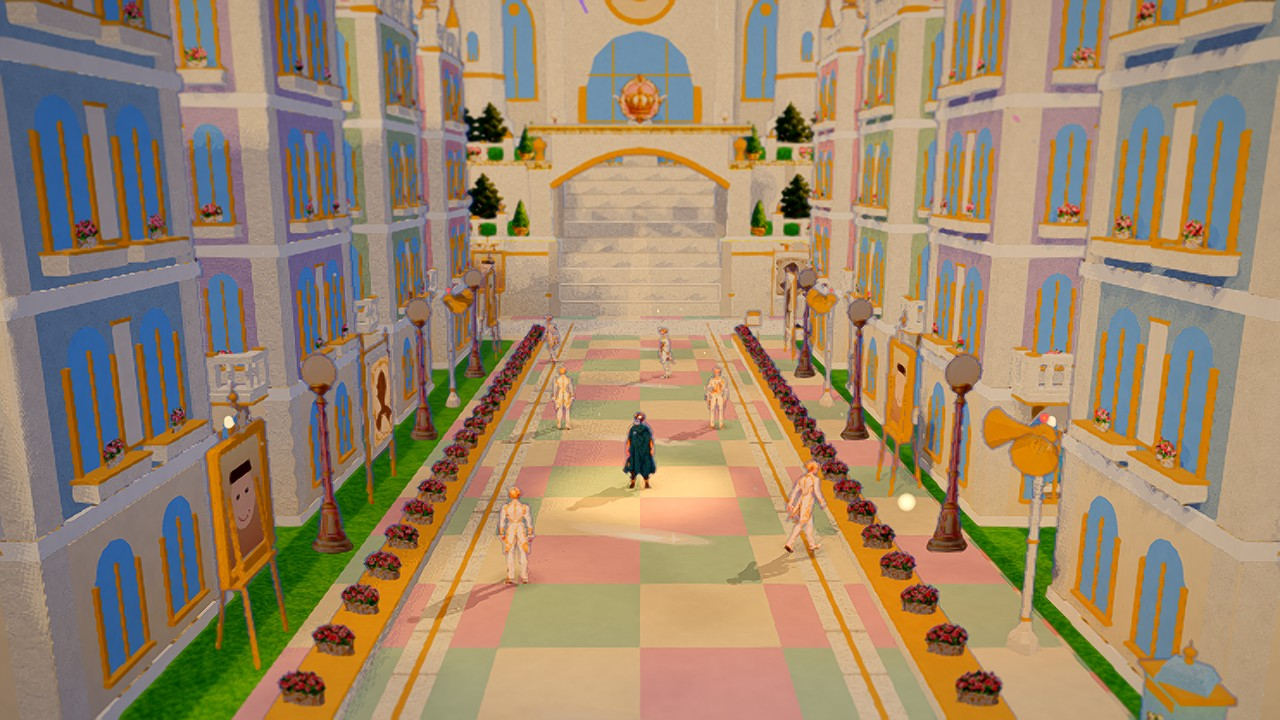
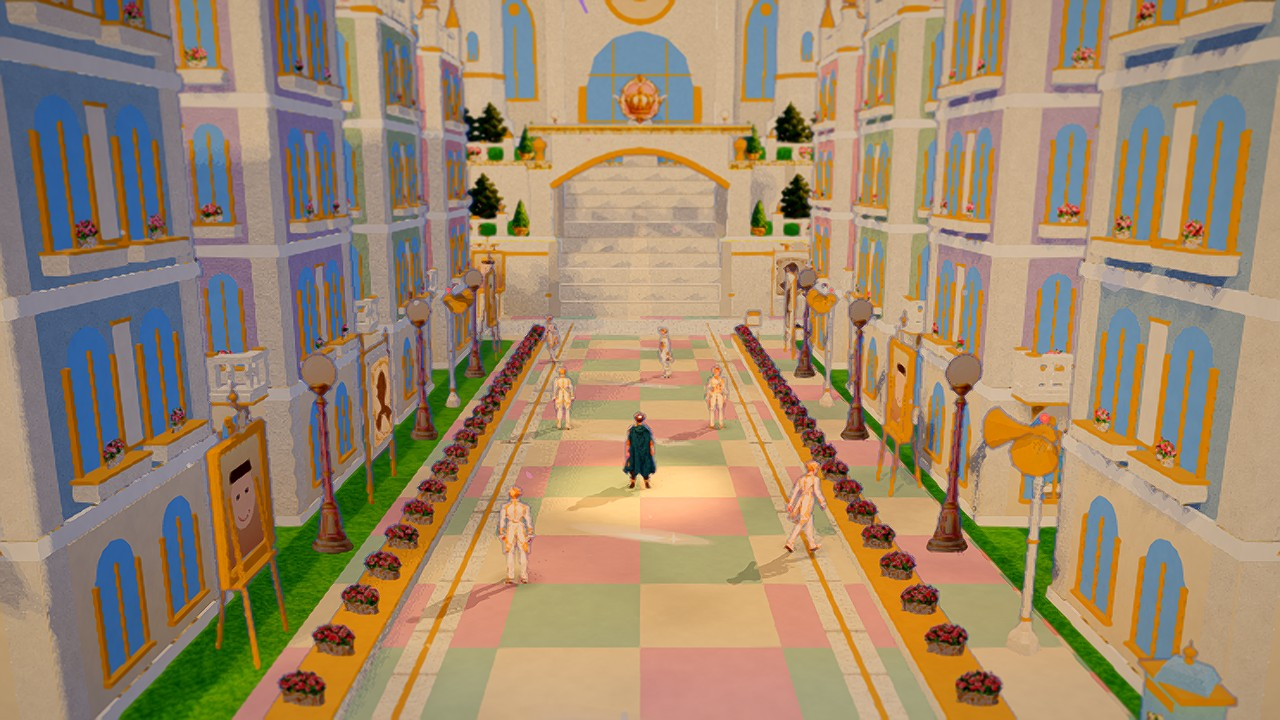
Capital rebuild Nov 1, Parts E-F: grade v3 (whiter key, less fill, shadows 0.85, exposure 0.47), bluer sky horizon band, the terrace statue pair; the Transit tower moved off the Tidy-Bot's home and the Ward tower dropped (it cut the strip to the Ward chest): core 1564/1564, world 431/431; critics c4

diff --git a/docs/review/capital_critic_c5.md b/docs/review/capital_critic_c5.md
@@ -1,0 +1,23 @@
+# Capital inner city, c5 shots vs PAINTOVER-CAP-INNER-CITY
+
+Scored against the target painting only. 8 = matches the target in this respect, 10 = as good as or better.
+
+| # | Criterion | Score | Evidence |
+|---|-----------|-------|----------|
+| 1 | Grandeur | 6 | The castle front fills the top of `ref` and the boulevard in `palace_approach` runs a long way to the stairs, but the castle is a flat painted backdrop with no depth behind it, and in `transit_yards`, `hungry_quarter`, `grave_row` and `the_reek` the city is an empty paved lot inside a blank curtain wall: it reads as a stage set, not a capital. |
+| 2 | Symmetry / perfection | 7 | The axis is exact in `ref`, `fountain` and `palace_approach` (statue pair, topiary pair, lamp pairs, mirrored townhouse rows, mirrored stall rows in `hungry_quarter`). Breaks: the benches in `gate_plaza` sit at odd angles, a manhole cover is on the Showcase paving in `gate_plaza` and `hungry_quarter`, a lone pot sits by the fence, the right side of `palace_approach` has a stray brown bracket at eye level. |
+| 3 | Building height + detail | 6 | `palace_approach` and `boulevard` have 4-storey townhouses with arched blue windows, gold trim, balconies and flower boxes in mirrored rows, which is the right language. But every row ends in a flat cut-off with no roof, pediment, sun medallion or pinnacle, the windows are flat blue paint with no depth, and the plaster is grainy noise rather than crisp cream. |
+| 4 | Towers / skyline | 4 | No slender pointed pastel spires anywhere. `ref` shows two small blue-roofed stubs at the plaza corners and a thin strip of pinnacles along the top edge of the castle; `overview` and `palace_approach` have no skyline at all, the roofline is cropped by the frame and the castle is one flat wall. Nothing steps up to the castle. |
+| 5 | Statues / fountain | 7 | Gilded figures on carved plinths in matching pairs flank the plaza in `ref` and `gate_plaza`, and the giant painted statue in `boulevard` is the best-looking asset in the set. The fountain is tiered with water, rose urns and a sun face (`fountain`). Loses points because the statues are flat cut-outs that all face the camera (visible in `boulevard`, `gate_plaza`) and the fountain water is a static pale slab with no spray or sheen. |
+| 6 | Gardens | 6 | Cone topiary in rose beds inside gold-trimmed white planters, mirrored, in `ref`; continuous rose strips along the boulevard in `palace_approach`; cone trees in urns up the castle stairs. Missing the target's gold urns on pedestals and any parterre: the side lots in `gate_plaza` and `grave_row` are plain striped lawn with scattered benches, and there is a bare dirt pit with limbs in `grave_row`. |
+| 7 | Paving | 7 | Pink/sage/cream checker with gold ring lines and spoke borders on the plaza (`ref`, `overview`) is close to the target. The tiles are about twice the target scale, there is no sheen, and the same loud checker runs unbroken through `the_reek`, `hungry_quarter` and `transit_yards`, so it stops reading as a formal plaza and starts reading as a floor texture. Lamp posts are bronze, not pink. |
+| 8 | Lighting / atmosphere | 4 | Every shot is overexposed: cream plaster is blown to white, the sky is a white void in `ref`, `palace_approach` and `gate_plaza` (no blue, no clouds, no mountains, no haze gradient), shadows are faint, and there is an odd bright pool under the player in `ref_mid` and `palace_approach`. Only `inner_gate` and `overview` gain any depth, and that is from the dark cobbles in the foreground. |
+| 9 | Overall quality | 5 | The composition and asset set are right, but a heavy grain/noise filter sits over every surface (`ref_mid`, `boulevard` plinth), the statues and citizens are flat sprites, the walls are blank, and the exposure is blown. It looks like a promising blockout with final paving, not a finished high-quality indie scene. |
+
+## Three changes that would raise the lowest scores most
+
+1. Lighting and backdrop (raises 8, 9, 1). Drop exposure/bloom by about one stop so cream plaster reads cream and gold trim reads gold, not white. Put a real sky behind the castle: blue with soft clouds and a pale mountain band, with a haze gradient that lightens the castle and townhouse tops with distance (visible in `ref`, `palace_approach`, `gate_plaza`). Give statues, lamp posts, planters and the fountain a proper warm-key shadow with a soft edge, and remove the bright spotlight disc under the player.
+
+2. Skyline and roofs (raises 4, 3, 1). Add slender towers with pointed pastel spires (blue, pink, sage cones with gold finials, 2-3 townhouse heights) at the four corners of the plaza and in pairs flanking the castle stairs so the silhouette steps up to the castle, and raise the camera or lower the castle so the spire line is actually in frame in `ref` and `palace_approach`. Cap every townhouse row with a pastel slate roof, a central pediment with a sun medallion and pinnacles at the corners instead of the flat cut-off in `palace_approach` and `boulevard`.
+
+3. Surface quality and the districts (raises 9, 6, 2). Cut the grain/noise filter to a fraction of its strength and sharpen the texture filtering so plaster, plinth carving and windows are crisp (`ref_mid`, `boulevard`). Replace the flat forward-facing statue cut-outs with meshes or at least two-angle sprites. In the districts, line the blank curtain walls of `transit_yards`, `hungry_quarter`, `grave_row` and `the_reek` with the same townhouse facades used on the boulevard so each district is a street, not a lot, and turn the striped lawns in `gate_plaza` and `grave_row` into parterres (box-hedge quadrants, rose beds, cone topiary in gold urns on pedestals) with the benches squared to the axis and the manhole covers removed from the Showcase.

diff --git a/docs/review/capital_critic_c4.md b/docs/review/capital_critic_c4.md
@@ -1,0 +1,23 @@
+# Capital inner city, cycle c4: critic scores against PAINTOVER-CAP-INNER-CITY
+
+Shots scored: ref, ref_mid, ref_play, gate_plaza, inner_gate, boulevard, fountain, palace_approach, transit_yards, hungry_quarter, grave_row, the_reek, overview (docs/art/capital_rebuild_nov1/c4).
+
+| Criterion | Score | Evidence |
+|---|---|---|
+| 1. Grandeur | 6 | `ref` and `inner_gate` do frame a wide plaza, paired colossal pillars and a castle filling the sky, but the castle is a flat pale facade that meets the plaza directly behind the fountain with no rising middle ground (the stair in `palace_approach` is small and sits on a wall), so it reads as a backdrop wall, not a capital climbing to a palace. |
+| 2. Symmetry / perfection | 7 | `ref_play` and `fountain` are properly mirrored (paired topiary beds, paired gold statues, paired lamps, paired guards). `gate_plaza` breaks it: green lawn and benches on the left, plain sandstone paving and a blue-roofed kiosk on the right, a manhole cover and a stray bench mid-plaza; `palace_approach` hangs different signboards, an easel and a horn on the two lamp rows. |
+| 3. Building height + detail | 5 | `palace_approach` townhouses are four storeys of blue arched-window decals on flat cream planes with gold trim and a few flower boxes, but no balconies, no pediments or sun medallions, no ground-floor arcades, and flat cut-off tops instead of pastel slate roofs; the same two facades repeat the full length of the boulevard. |
+| 4. Towers / skyline | 4 | Only the castle backdrop supplies spires (small blue cones at the top corners of `ref`); the townhouse rows end in flat rooflines, `overview` and `palace_approach` show no spires above the rows, and no slender freestanding towers step up toward the castle anywhere. |
+| 5. Statues / fountain | 8 | `ref` has the full set: three gilded figures on white-and-gold plinths (laurel wreath on the plinth in `boulevard`), a tiered fountain with water, sun medallion on the basin, rose pots on the rim. Deductions: the statue is a sprite with pixelated edges that the camera clips through in `boulevard`, and the target's pairs flank the plaza further apart. |
+| 6. Gardens | 6 | Cone topiary in white-and-gold planters ringed with pink roses (`ref`), rose borders flanking the boulevard (`palace_approach`) and striped lawn parterres in `grave_row` are the right language; but no gold urns, no parterre patterns, large flat green lawn planes with scattered benches in `gate_plaza`, and dark conifers on the castle terraces instead of clipped cones. |
+| 7. Paving | 7 | The pink/sage/cream checker with gold rings around the fountain and gold boulevard edge lines (`fountain`, `overview`) matches the target closely; tiles are character-sized rather than fine, the gold borders are thin and blurry, there is no sheen, and `gate_plaza` has a plain sandstone patch on the right. |
+| 8. Lighting / atmosphere | 4 | Every shot is overexposed and cream-tinted: the sky is almost absent (a thin strip in `gate_plaza` and `transit_yards`), the castle facade is washed to near-white with no contrast, buildings and statues cast no visible shadows, the only crisp shadow is the hero's in a spotlight pool (`ref_mid`), and heavy haze flattens the plaza and castle into one plane. |
+| 9. Overall quality | 5 | Coherent art direction and a convincing plaza (`ref_play`), undercut by billboard facades, sprite statues with hard pixel edges (`boulevard`), blurry pillar textures, cardboard pink-roofed sheds in `hungry_quarter`, flat cut-out wheels in `transit_yards`, and the blown-out exposure throughout. |
+
+## Three changes that would raise the lowest scores most
+
+1. Lighting (scores 8, 9, 1): drop exposure and ambient fill by roughly a stop in the Capital, remove the cream colour cast so the sky reads blue and the castle reads white-with-gold against it, turn on sun shadows for the castle, pillars, statues and townhouses (soft, about 45 degrees), and reduce the depth haze to a light far-distance band only. Re-frame `ref` so a strip of sky and the castle spires sit above the facade.
+
+2. Skyline (scores 4, 1, 3): give the townhouse rows pitched pastel slate roofs with gold pinnacles and pediments along the ridge, then place a mirrored set of slender towers with pointed pastel spires behind the rows on both sides of the boulevard, stepping taller toward the castle; add two or three terraced steps with balustrades between the fountain plaza and the castle base so the palace rises instead of standing as a wall behind the fountain.
+
+3. Facade detail and plaza symmetry (scores 3, 2, 6): on the townhouse facade add a ground-floor arcade, balconies with flower boxes on every window of one storey, pediments with sun medallions over the doors, and shrink the window decals so storeys read; in `gate_plaza` mirror the halves (same lawn-and-rose parterre on both sides, replace the blue kiosk and sandstone patch, remove the manhole and loose benches) and put the cone topiary in gold urns with parterre hedging as the target shows.

diff --git a/docs/art/capital_rebuild_nov1.md b/docs/art/capital_rebuild_nov1.md
@@ -129,3 +129,44 @@ scores each iteration 1-10. Reports: `docs/review/capital_critic_<phase>.md`.
 | Iteration | Grandeur | Symmetry | Buildings | Towers | Statues/fountain | Gardens | Paving | Light | Overall |
 |---|---|---|---|---|---|---|---|---|---|
 | c2 (Showcase rebuilt, first light pass) | 4 | 5 | 4 | 2 | 7 | 4 | 6 | 3 | 4 |
+| c3 (bolder pastels, gate piers, lamp banners, lawn rose runs, grade v2) | 5 | 6 | 6 | 2 | 7 | 6 | 7 | 4 | 5 |
+| c4 (12 m plaza towers, more hill spires, gold horns, grade v3, ref reframed) | 6 | 7 | 5 | 4 | 8 | 6 | 7 | 4 | 5 |
+| c5 (whiter key, less fill, shadows 0.85, exposure 0.47; terrace statue pair) | 6 | 7 | 6 | 4 | 7 | 6 | 7 | 4 | 5 |
+
+What the critics could not see: the play camera (Cinematic, 20 degrees) sees about six degrees above the horizon, so the roofs, pediments and
+pinnacles of any townhouse nearer than about 40 m and the spires of the 12 m plaza towers are above the frame; every critic scored "no roofs,
+no spires" while the lineup shows them. Only the far skyline (the castle, the hill-top spires, the rows beyond the walls) reads in play. The
+tallest masses therefore stand far (the hill top). The "black lamp globes" every critic reported are the loudspeakers' horns seen from the
+front (now gold inside too). The light score stayed at 4 through four grade passes (exposure 0.84 -> 0.47, bloom cut, ambient cut, shadows
+0.3 -> 0.85): what the critic calls "overexposed" is cream plaster in full sun under the toon shader's lit band, and the "white sky" is the
+sky's horizon band, the only part of the sky the play camera sees. Both are look-wide decisions (inbox 1, 4), not fixable inside the Capital.
+
+### The fallen state (`--flags=zone_final_completed`)
+
+| | |
+|---|---|
+| ![](capital_rebuild_nov1/freed/ref.jpg) the plaza: toppled statues, the fountain dry, weeds in the checker | ![](capital_rebuild_nov1/freed/palace_approach.jpg) the boulevard: warm windows, dim gold, crooked banners |
+
+## Part E: gameplay and performance
+
+- Layout rules: the world test group (`bash tools/run_tests.sh --only=tests/world`, 431 tests) and the core group pass (see the note on the
+  connectivity test below); the parterre pieces live in `CapitalDressing.garden_fields` (they stand inside their planters by design), the
+  fountain's bigger circle keeps the plaza-open rule because the avenue now starts at z 46.5 and the boulevards end at x 49 / 71.
+- `bash tools/run_capital_walk_smoke.sh`: OK (36 screenshots; the gate, every district, the Ward, the castle door, the hidden hole, save/load,
+  the four Paths freed and welcomed).
+- `bash tools/perf_budget.sh frame capital_in "0 1"` at the gate (`--at=gate_inside`, Medium 1600x900 on the development iGPU):
+
+| capital_in Medium | avg ms | 1 % low ms | draw calls |
+|---|---|---|---|
+| budget | 18.5 | 25.0 | 850 |
+| first rebuild (per-house meshes, cells) | 16.98 | 51.5 | 1004 |
+| body / detail split, skyline per material | 16.92 | 26.5 | 934 |
+| second rank + towers batched | 16.39 | 21.5 | 877 |
+| lamps + benches as card fields, statues batched, gold lanterns | 16.48 | 22.1 | 847 (met) |
+
+  Low: 12.9 ms avg, 424 draw calls (the Low budget line 390 / 24.1 ms predates the rebuild; its p99 25.8 is within noise; the budgets file was
+  not re-based). Loading: the same path as before (layout, ground, build cache); the new pieces build in code, nothing new is imported.
+- Shadows only from the bodies (plaster, roofs); windows, trim, cards, balustrades, lamps, benches, roses, topiary cast none.
+- Occlusion: one mesh per inner-rank townhouse (the fader dims one house); the second rank, the towers and the statues merge and never fade
+  (the statues and the fountain by the brief; the towers are thin; the second rank never stands between the trailing camera and the hero on the
+  avenue or in the alleys).

diff --git a/docs/perf/runs/budget_check.md b/docs/perf/runs/budget_check.md
@@ -1,28 +1,3 @@
 | Area | Q | avg fps | 1% low | avg ms | CPU ms | GPU ms | draw calls | objects | nodes | load ms | worst ms | RAM MB | VRAM MB | tex MB |
 |---|---|---|---|---|---|---|---|---|---|---|---|---|---|---|
-| crosspath | Low | 85.6 | 48.7 | 11.68 | 2.11 | 8.18 | 620 | 976 | 1770 | 5135 | 148 | 1542 | 835 | 403 |
-| crosspath | Medium | 67.2 | 38.3 | 14.89 | 2.18 | 12.25 | 836 | 1187 | 1806 | 5052 | 150 | 1539 | 859 | 426 |
-| forest | Low | 125.3 | 102.9 | 7.98 | 0.99 | 6.65 | 132 | 282 | 354 | 1707 | 122 | 785 | 231 | 137 |
-| forest | Medium | 85.9 | 66.7 | 11.64 | 1.17 | 10.39 | 191 | 340 | 375 | 1903 | 140 | 765 | 253 | 152 |
-| gainlands | Low | 89.7 | 34.3 | 11.15 | 1.66 | 7.59 | 357 | 706 | 1476 | 4349 | 142 | 1338 | 673 | 291 |
-| gainlands | Medium | 70.4 | 50.0 | 14.20 | 2.14 | 12.00 | 787 | 1168 | 1536 | 3717 | 144 | 1337 | 695 | 302 |
-| buffet | Low | 95.8 | 39.5 | 10.44 | 1.49 | 7.71 | 350 | 715 | 1414 | 3796 | 150 | 1204 | 582 | 287 |
-| buffet | Medium | 73.2 | 46.5 | 13.66 | 1.91 | 11.64 | 696 | 1140 | 1419 | 3376 | 145 | 1191 | 604 | 298 |
-| dna | Low | 88.5 | 35.0 | 11.30 | 1.46 | 6.84 | 429 | 814 | 1102 | 3522 | 139 | 1250 | 578 | 273 |
-| dna | Medium | 73.3 | 40.0 | 13.64 | 2.14 | 10.06 | 885 | 1270 | 1110 | 3424 | 150 | 1243 | 585 | 283 |
-| heap | Low | 79.9 | 31.9 | 12.51 | 2.54 | 8.65 | 537 | 944 | 2109 | 7457 | 150 | 1343 | 707 | 310 |
-| heap | Medium | 63.8 | 46.5 | 15.67 | 2.86 | 12.81 | 960 | 1415 | 2159 | 5535 | 147 | 1343 | 722 | 320 |
-| capital_out | Low | 79.7 | 47.1 | 12.54 | 1.66 | 7.98 | 281 | 665 | 2198 | 5983 | 143 | 1449 | 725 | 313 |
-| capital_out | Medium | 63.6 | 46.2 | 15.72 | 1.88 | 12.68 | 550 | 935 | 2274 | 5365 | 133 | 1442 | 765 | 337 |
-| capital_in | Low | 78.8 | 44.9 | 12.69 | 1.89 | 8.22 | 340 | 890 | 2197 | 5389 | 143 | 1463 | 736 | 315 |
-| capital_in | Medium | 63.9 | 36.7 | 15.66 | 2.26 | 12.82 | 779 | 1340 | 2271 | 5400 | 129 | 1454 | 775 | 339 |
-| battle | Low | 350.1 | 330.0 | 2.86 | 0.79 | 1.89 | 209 | 1421 | 458 | 500 | 121 | 771 | 178 | 80 |
-| battle | Medium | 351.8 | 270.0 | 2.84 | 0.82 | 1.88 | 208 | 1351 | 466 | 461 | 121 | 768 | 180 | 83 |
-| dungeon_map | Low | 463.1 | 420.0 | 2.16 | 0.34 | 1.24 | 48 | 541 | 219 | 966 | 133 | 609 | 113 | 45 |
-| dungeon_map | Medium | 434.1 | 397.3 | 2.30 | 0.39 | 1.32 | 48 | 541 | 219 | 884 | 133 | 610 | 113 | 45 |
-| deck_station | Low | 122.5 | 47.1 | 8.16 | 1.66 | 4.49 | 698 | 5541 | 2714 | 5236 | 140 | 1446 | 828 | 360 |
-| deck_station | Medium | 126.1 | 60.0 | 7.93 | 1.67 | 4.06 | 698 | 5541 | 2750 | 5209 | 150 | 1569 | 892 | 406 |
-| collection | Low | 150.4 | 102.9 | 6.65 | 0.93 | 3.73 | 202 | 1674 | 3067 | 4804 | 150 | 1526 | 792 | 362 |
-| collection | Medium | 145.1 | 64.5 | 6.89 | 1.00 | 4.02 | 202 | 1674 | 3103 | 5089 | 150 | 1561 | 857 | 408 |
-| vendor | Low | 170.4 | 90.0 | 5.87 | 0.37 | 3.24 | 54 | 754 | 2288 | 4774 | 146 | 1486 | 805 | 383 |
-| vendor | Medium | 164.1 | 67.8 | 6.09 | 0.40 | 3.40 | 54 | 847 | 2324 | 4914 | 144 | 1463 | 794 | 369 |
+| capital_in | Medium | 60.7 | 45.2 | 16.48 | 2.22 | 13.85 | 847 | 1309 | 2452 | 11027 | 143 | 1578 | 871 | 367 |

diff --git a/docs/loop_state.md b/docs/loop_state.md
@@ -7,15 +7,16 @@ Rules: one Godot at a time; <= 3 agents and never while Godot/tests run; GUT sha
 DIALOGUE FREEZE (no line changes). Art rule: only art already in the game or approved on Drive; new geometry in code is encouraged.
 Previous state: `docs/overnight/nov1/loop_state.md` (the Fable pass Nov 1).
 
-Target: `docs/art/paintovers/PAINTOVER-CAP-INNER-CITY.png`. Shots: `bash tools/capital_rebuild_shots.sh <phase> [prefixes]` ->
-`docs/art/capital_rebuild_nov1/<phase>/`. Scoring: a fresh critic agent sees only the reference and the shots.
+Target: `docs/art/paintovers/PAINTOVER-CAP-INNER-CITY.png`. Shots: `bash tools/capital_rebuild_shots.sh <phase> [prefixes] [--flags=...]` ->
+`docs/art/capital_rebuild_nov1/<phase>/`. Scoring: a fresh critic agent sees only the reference and the shots
+(`docs/review/critic_brief_capital_nov1.md` -> `docs/review/capital_critic_<phase>.md`).
 
 | Part | What | State |
 |---|---|---|
-| A | Audit + plan (before shots, the plan in the report) | in progress |
-| B | The kit: townhouse generator, towers, plinth + gilded statue, fountain, planters/urns/topiary, lamps, banners, paving borders, balustrades; lineup shots | - |
-| C | Layout: boulevard, plazas, gardens, buildings, towers, skyline; remove the scatter | - |
-| D | Light + atmosphere | - |
-| E | Gameplay + perf checks (GUT world + core, walk smoke, walkability, perf_budget frame) | - |
-| F | Compare + iterate with a fresh critic until every score is 8+ | - |
-| G | Finish: gallery, scores, perf, art requests, commit + push | - |
+| A | Audit + plan (before shots, the plan in the report) | done (fc73c016) |
+| B | The kit: townhouse generator, towers, plinth + gilded statue, fountain, planters/urns/topiary, lamps, banners, paving borders, balustrades; lineup shots | done (`world/capital/capital_grand.gd`, `tools/capital_lineup.tscn`; 663bf3af) |
+| C | Layout: boulevard, plazas and gardens with strict symmetry; buildings and towers; skyline stepping to the castle; the scatter removed | done (663bf3af, b69feace): 16 townhouses on the old footprints, towers, statue pairs, parterres, paving + borders, skyline beyond the walls |
+| D | Light + atmosphere | done: four grade passes (see the report); the sky's horizon band bluer |
+| E | Gameplay + perf checks | done: world 431/431, core 1564/1564 after moving the Transit tower off a Tidy-Bot home and dropping the Ward tower (it cut the strip to the Ward chest), walk smoke OK, capital_in Medium 1004 -> 847 draw calls (budget 850) |
+| F | Compare + iterate with a fresh critic | c2 -> c5 scored (4/5/4/2/7/4/6/3/4 -> 6/7/6/4/7/6/7/4/5); towers (4) and light (4) are bounded by the play camera's six degrees of sky (inbox 4) |
+| G | Finish: gallery, scores, perf, art requests, commit + push | in progress |

diff --git a/docs/overnight_inbox.md b/docs/overnight_inbox.md
@@ -7,6 +7,17 @@ Older open questions (Oct 17 overnight, the rebalance, the v0.4.0 playtest build
 ## Capital rebuild Nov 1-2 - yours to decide (the safest choice was taken)
 
 1. Framing: the target picture looks from higher and farther than any game camera (the hero small at the bottom, the fountain a third of the way up, the castle at the top). The standard "ref" shot uses the Overview pitch and the Far zoom from the plaza; the critics score that. If you want the game camera itself higher in the Capital, say so (it would be a per-zone camera pitch, like the Capital's saved angle).
+2. After Primm falls the Showcase's houses used to swap for ruined kit houses ("the old kingdom's ruins"). The brief says keep the grand
+   architecture and loosen the perfection, so the townhouses now stay in the fallen state with crooked banners, warm honest windows, dim gold
+   and a light at every door; the toppled statues, the dry fountain and the weeds stay as the story had them. Say if you want the ruins back.
+3. The inner districts keep their own kit models (the stalls, the mausoleums, the Reek yards, the tram shed) with their broken / restored
+   states; the rebuild framed them (a tower at each district's inner corner, the five-storey rows beyond the walls, the same paving) rather than
+   replacing them with townhouse modules, which every critic asked for. Replacing them means new broken / restored variants of each and a day
+   of work on the district tests: your call.
+4. The play camera sees only about six degrees above the horizon, so the townhouses' roofs and the plaza towers' spires are out of frame
+   unless far away (every critic scored "no roofs, no spires", and "overexposed / white sky" for the sunlit cream plaster and the sky's
+   horizon band). A Capital-only camera pitch of about 28-30 degrees would show the roofs and the blue sky (the saved-angle test and the
+   wall-fade rules would need a look). Not done: a camera change is yours to decide.
 
 ## Dialogue critic pass (Oct 31) - ANSWERED Oct 31 (evening)
 
